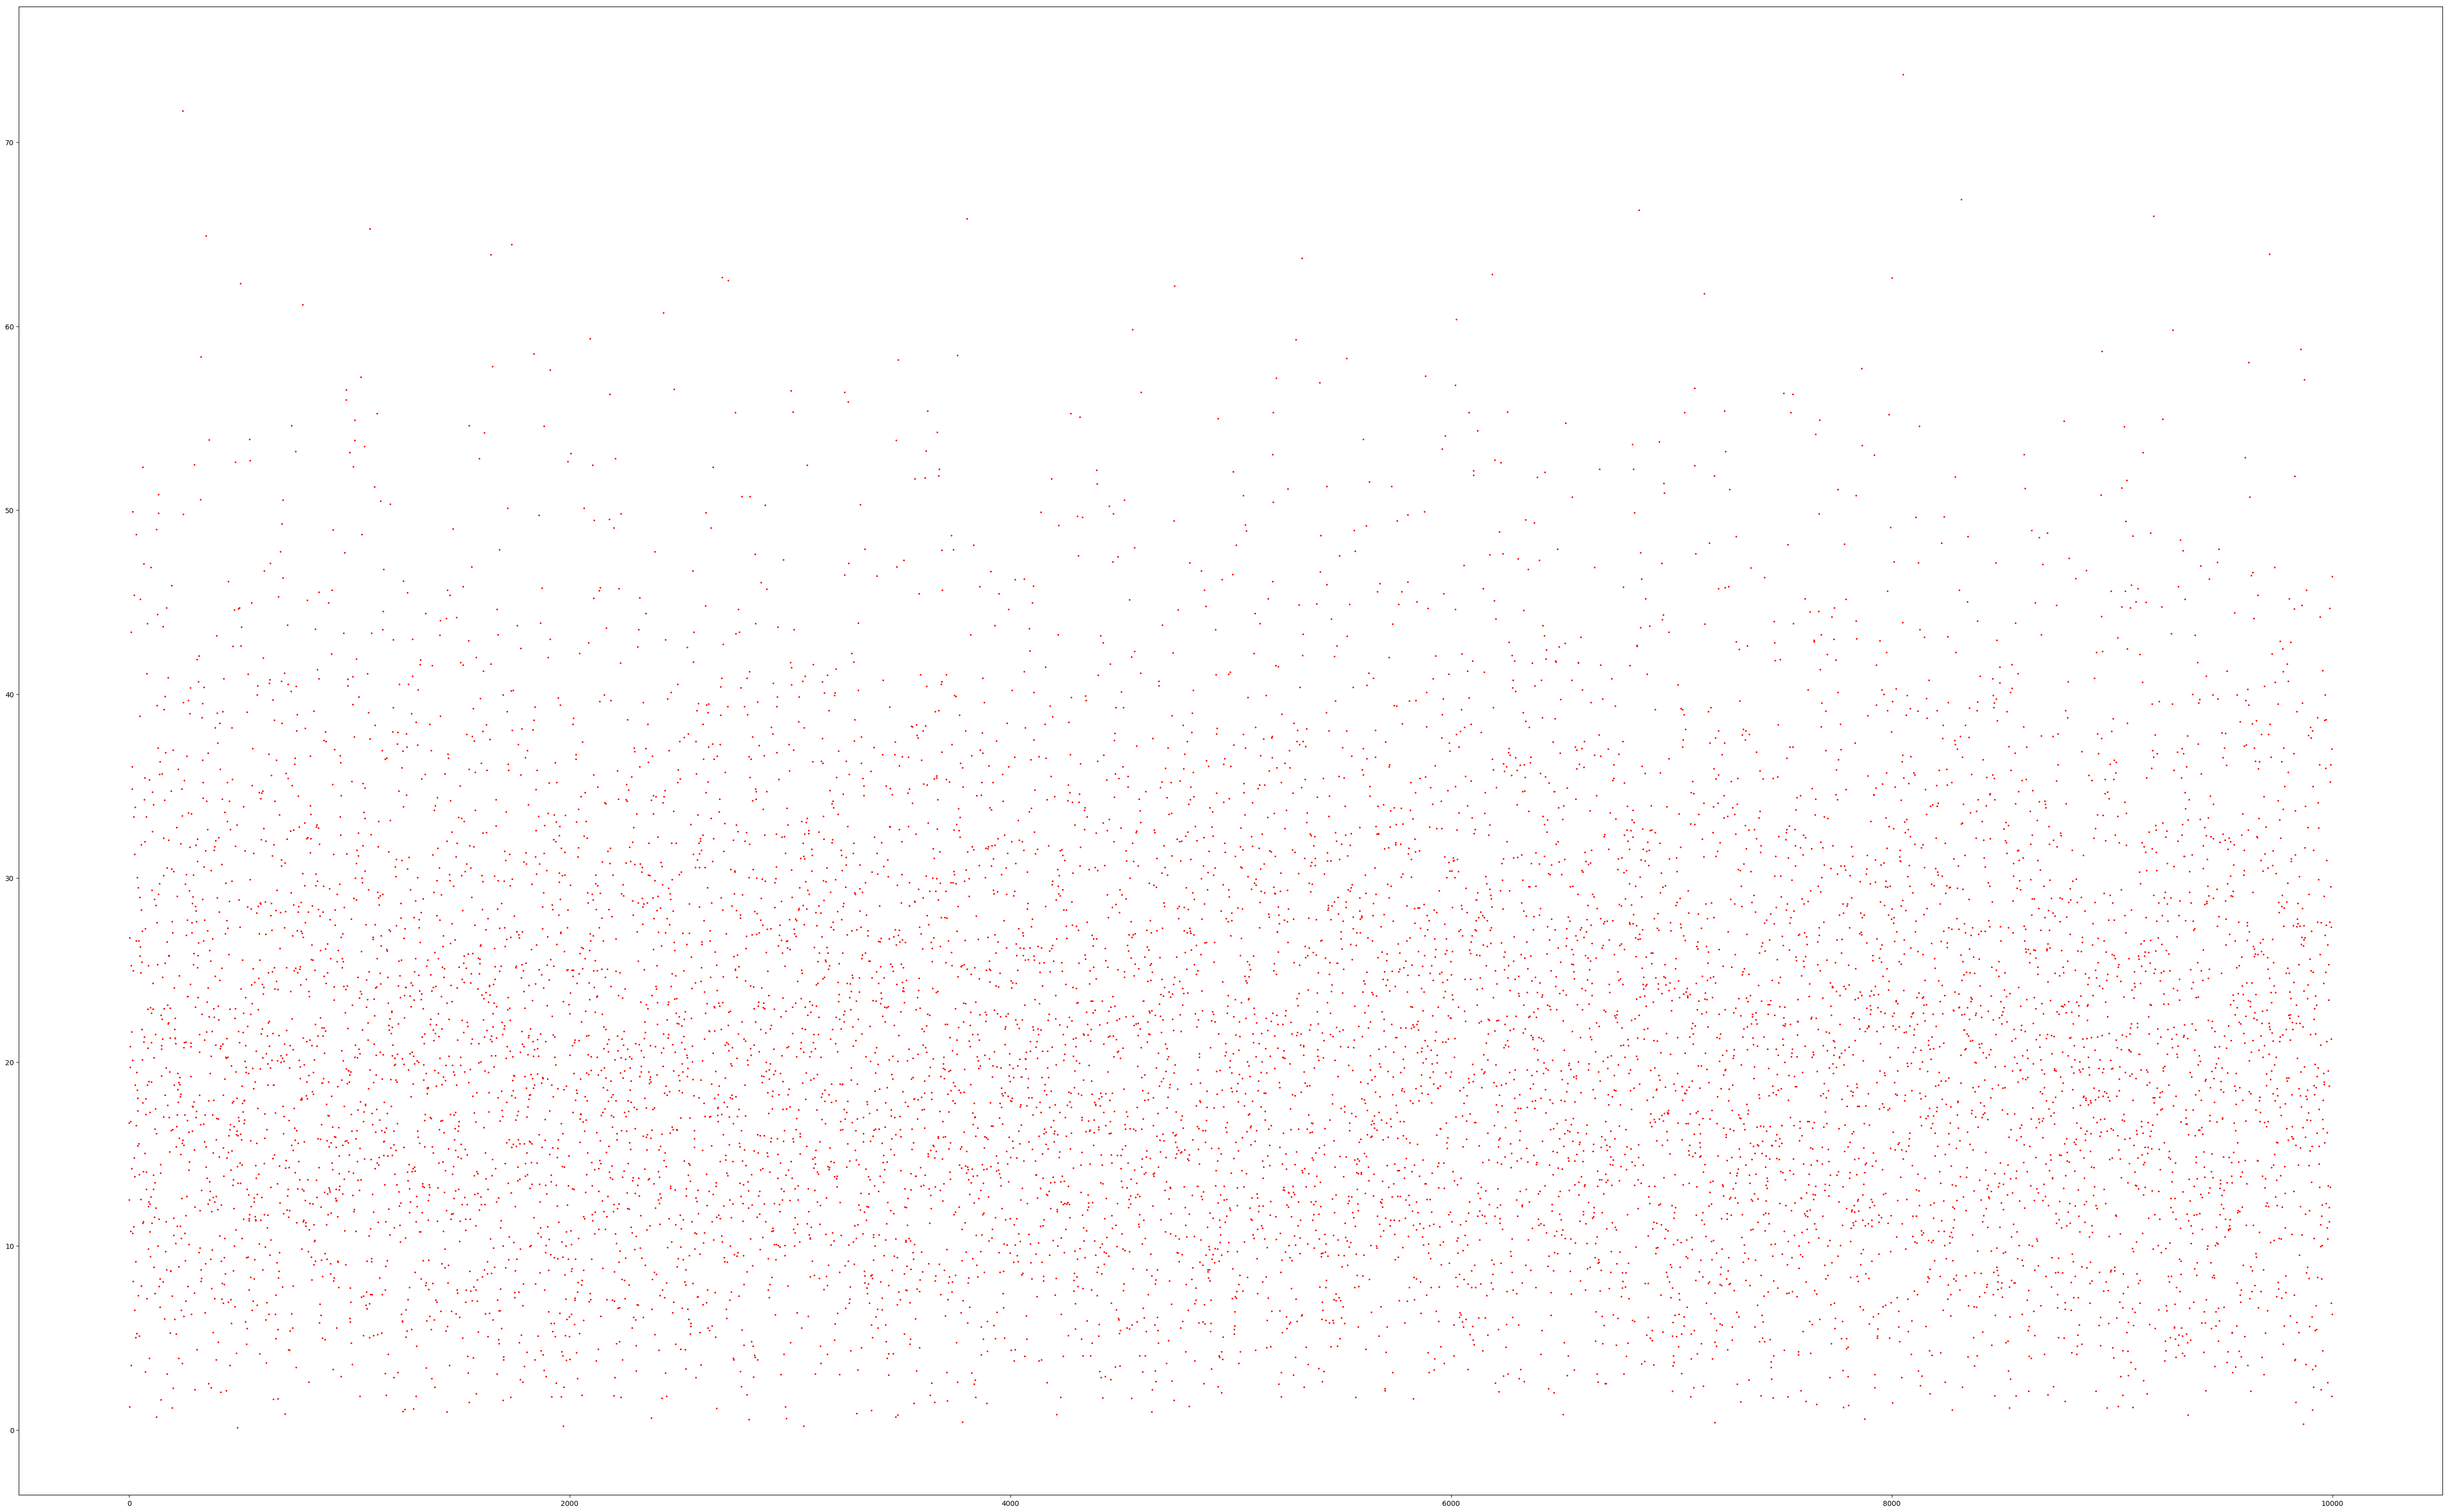
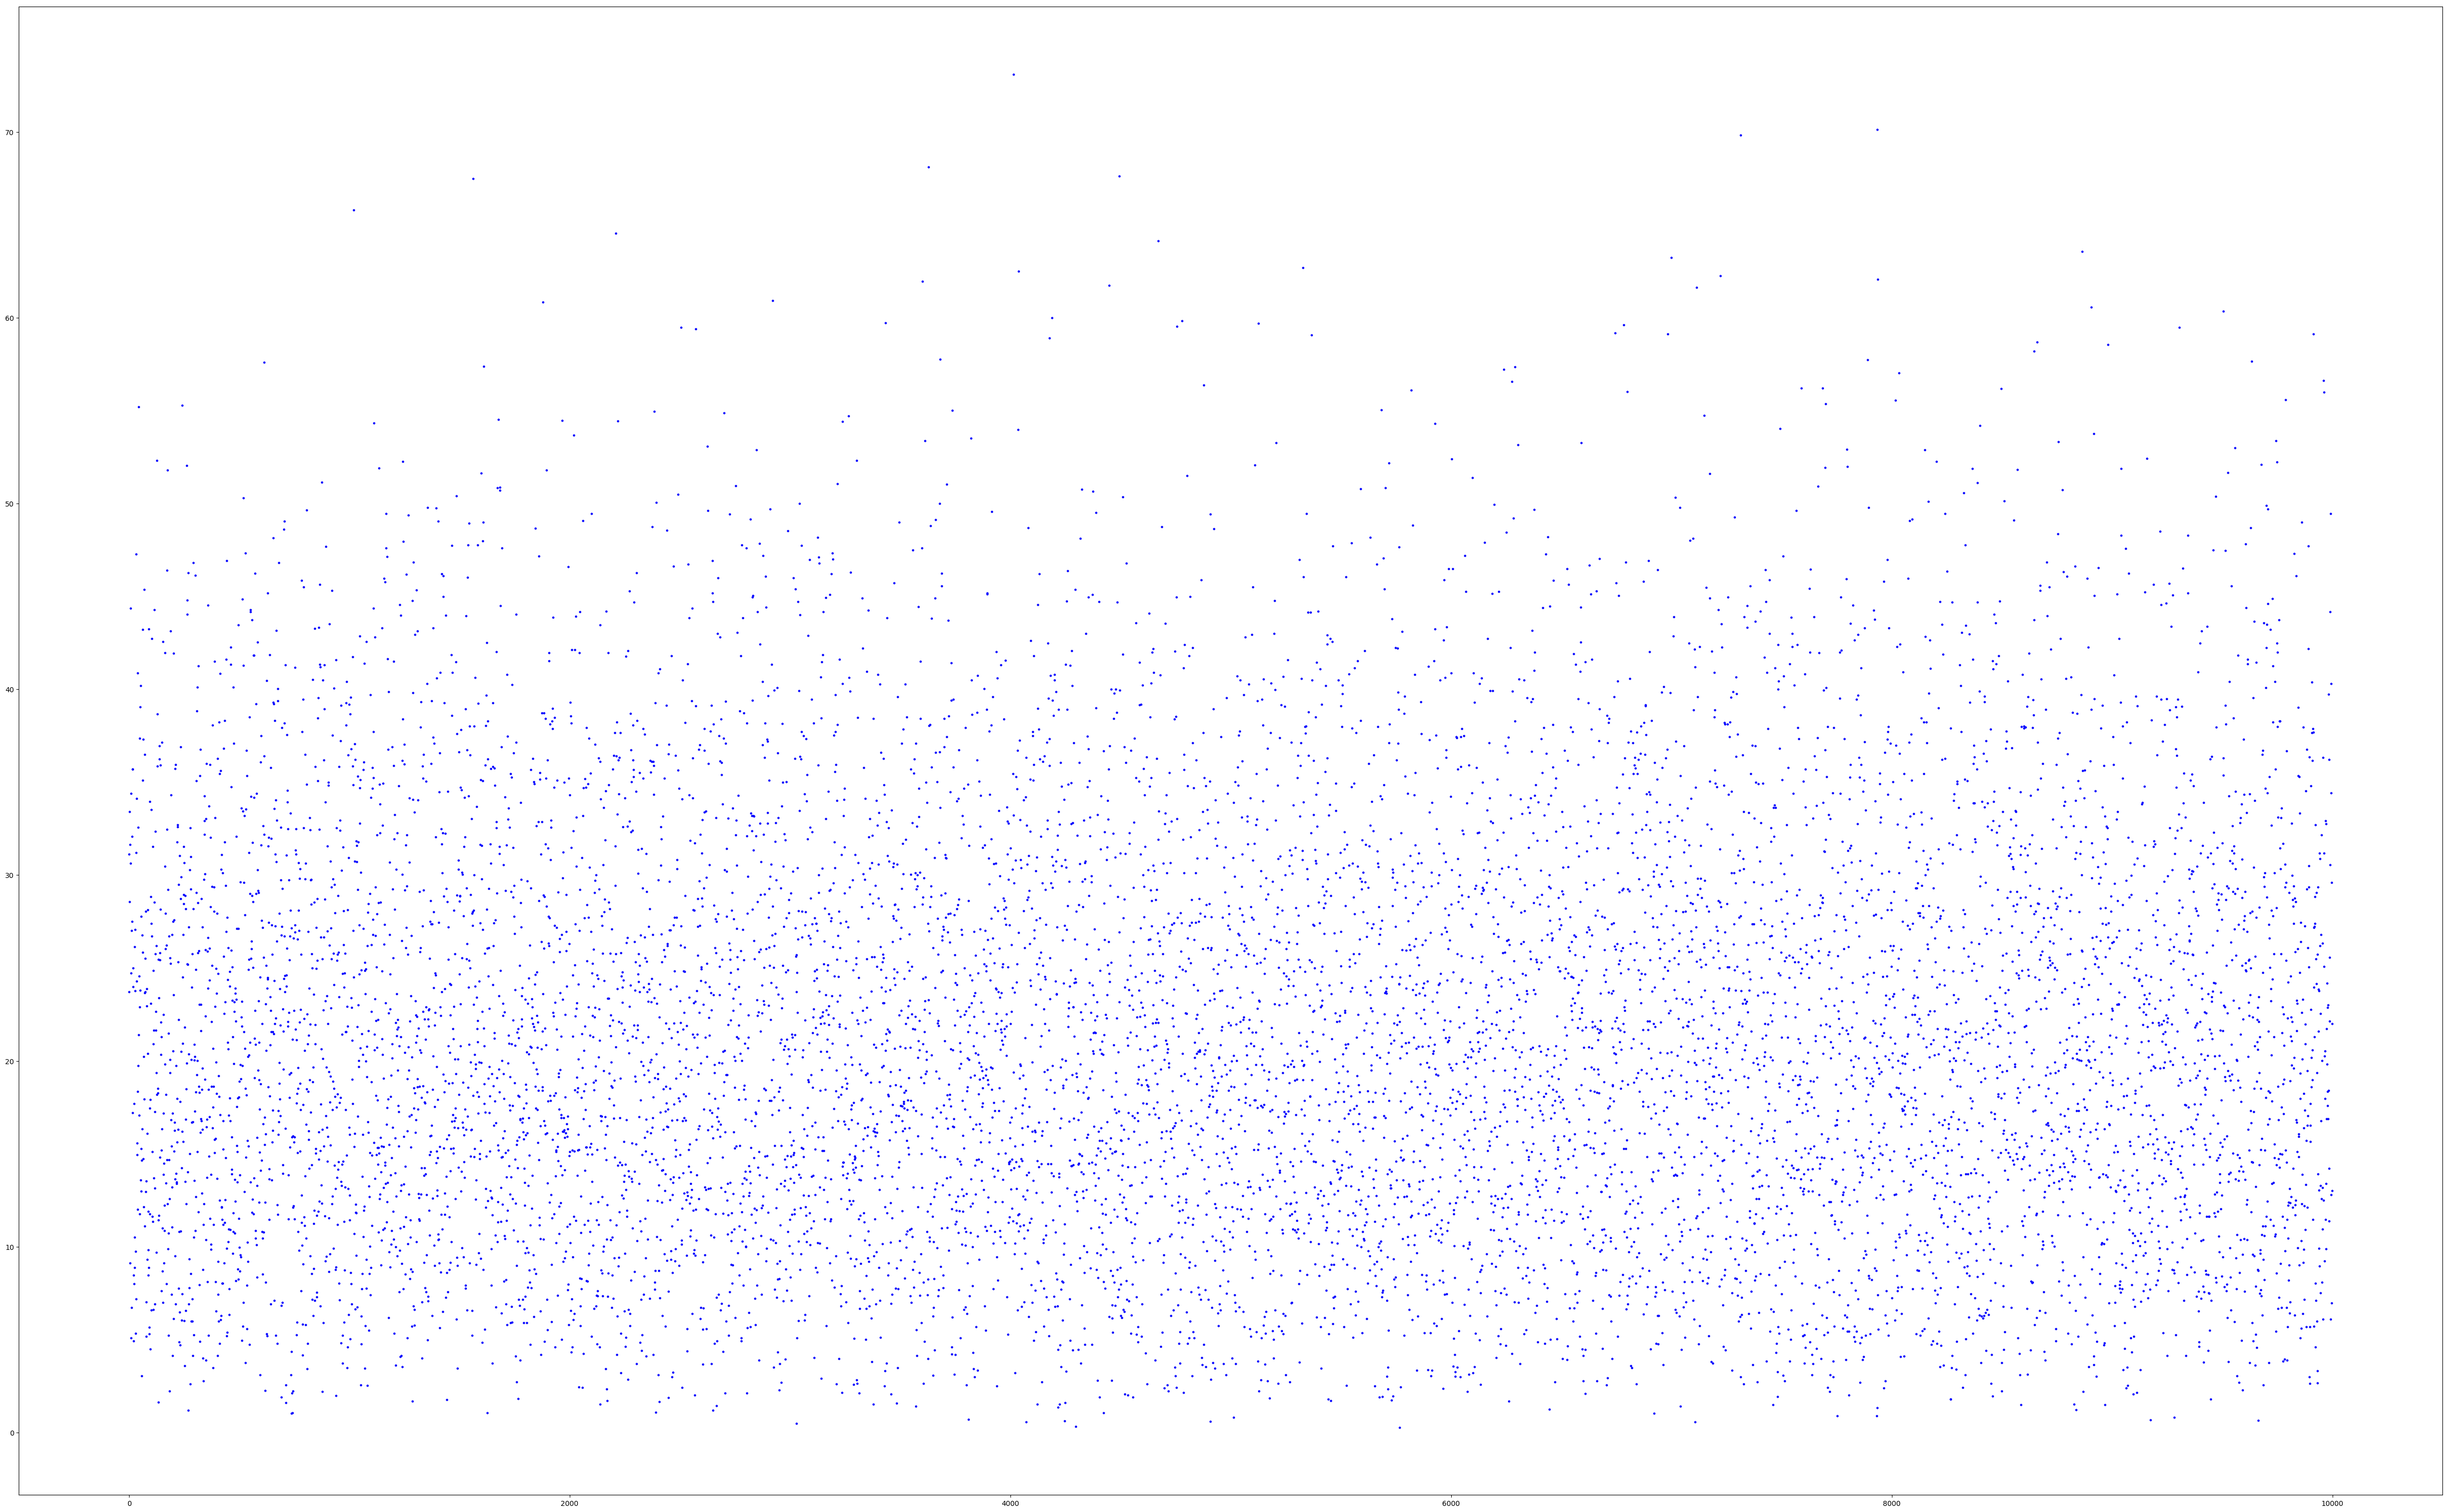
'keep going'

diff --git a/Alien_Invasion/game_functions.py b/Alien_Invasion/game_functions.py
@@ -1,4 +1,4 @@
-import sys,pygame
+import sys,pygame,time
 from ship import Ship
 from bullet import Bullet
 from alien import Alien
@@ -68,18 +68,41 @@ def change_feet_direction(aliens_settings,aliens):
         alien.rect.y+=aliens_settings.fleet_drop_speed
     aliens_settings.fleet_direction*=-1
 
-def update_screen(aliens_settings,screen,ship,bullets,aliens):
-    screen.fill(aliens_settings.bg_color)
-    ship.update()
-    ship.blitme()
+def ship_hit(aliens_settings,stats,screen,ship,aliens,bullets):
+    if stats.ships_left>0:
+        stats.ships_left-=1
+        aliens.empty()
+        bullets.empty()
+        create_fleet(aliens_settings,screen,aliens,ship)
+        ship.center_ship()
+        time.sleep(0.5)
+    else: stats.game_active=False
+
+def update_bullets(aliens,bullets,screen,ship,aliens_settings):
     bullets.update()
-    check_fleet_edges(aliens_settings,aliens)
-    aliens.update()
-    aliens.draw(screen)
     for bullet in bullets.copy():
         if bullet.rect.bottom<=0:
             bullets.remove(bullet)
-    ship.fire_bullet(ship,bullets)
+    collisions=pygame.sprite.groupcollide(bullets,aliens,True,True)
+    if len(aliens)==0:
+        bullets.empty()
+        create_fleet(aliens_settings,screen,aliens,ship)
+
+def update_aliens(aliens_settings,aliens,ship,stats,screen,bullets):
+    check_fleet_edges(aliens_settings,aliens)
+    aliens.update()
+    if pygame.sprite.spritecollideany(ship,aliens) or check_aliens_bottom(screen,aliens):
+        ship_hit(aliens_settings,stats,screen,ship,aliens,bullets)
+
+def check_aliens_bottom(screen,aliens):
+    for alien in aliens.sprites():
+        if alien.rect.bottom>=screen.get_rect().bottom:
+            return True
+
+def update_screen(aliens_settings,screen,ship,bullets,aliens,stats):
+    screen.fill(aliens_settings.bg_color)
+    ship.blitme()
+    aliens.draw(screen)
     for bullet in bullets.sprites():
         bullet.draw_bullet()
     pygame.display.flip() #让最近绘制的屏幕可见

diff --git a/Alien_Invasion/alien_invasion.py b/Alien_Invasion/alien_invasion.py
@@ -4,6 +4,7 @@ from ship import Ship
 import game_functions as gf
 from pygame.sprite import Group
 from alien import Alien
+from game_stats import GameStats
 
 def run_game():
     pygame.init()
@@ -13,8 +14,14 @@ def run_game():
     ship=Ship(screen,aliens_settings)
     bullets=Group()
     aliens=Group()
+    stats=GameStats(aliens_settings)
     gf.create_fleet(aliens_settings,screen,aliens,ship)
     while True: #每次循环都会自动重绘屏幕
         gf.check_events(aliens_settings,screen,ship,bullets)
-        gf.update_screen(aliens_settings,screen,ship,bullets,aliens)#更新屏幕上的图像,并切换到新屏幕
+        if stats.game_active:
+            ship.update()
+            gf.update_aliens(aliens_settings,aliens,ship,stats,screen,bullets)
+            gf.update_bullets(aliens,bullets,screen,ship,aliens_settings)
+            ship.fire_bullet(ship,bullets)
+            gf.update_screen(aliens_settings,screen,ship,bullets,aliens,stats)#更新屏幕上的图像,并切换到新屏幕
 run_game()

diff --git a/Alien_Invasion/ship.py b/Alien_Invasion/ship.py
@@ -19,7 +19,7 @@ class Ship():
 
     def fire_bullet(self,ship,bullets):
         if self.fire and len(bullets) < self.aliens_settings.bullets_allowed and \
-        time.perf_counter()-self.bullet_time>0.5:
+        time.perf_counter()-self.bullet_time>0.2:
             new_bullet=Bullet(self.aliens_settings,self.screen,ship)
             bullets.add(new_bullet)
             self.bullet_time=time.perf_counter()
@@ -31,3 +31,6 @@ class Ship():
         self.rect.centerx=self.centerx
     def blitme(self):
         self.screen.blit(self.image,self.rect)
+
+    def center_ship(self):
+        self.center=self.screen_rect.centerx    

diff --git a/Alien_Invasion/settings.py b/Alien_Invasion/settings.py
@@ -5,11 +5,12 @@ class Settings():
         self.screen_height=800
         self.bg_color=(230,230,230)
         self.ship_speed_factor=1.5 #ship setting
+        self.ship_limit=3
         self.bullet_speed_factor=1# 子弹设置
         self.bullet_width=3
         self.bullet_height=15
         self.bullet_color=60,60,60
-        self.bullets_allowed=3
+        self.bullets_allowed=100
         self.alien_speed=1
         self.fleet_drop_speed=10
         self.fleet_direction=1

diff --git a/Data_visual/random_walk.py b/Data_visual/random_walk.py
@@ -41,13 +41,13 @@ class person():
 walk_steps=5000
 step_distance=[0.3,0.3,0.3,0.2,0.2,0.1]
 David=person(walk_steps,step_distance)
-for i in range(10000):
+for i in range(1000):
     David.x=[0]
     David.y=[0]
     David.random_walk()
     David.show_distance()
 
 plt.figure(figsize=(61.8,38.2))
-plt.scatter(range(10000),David.distances,s=5,c='red')
+plt.scatter(range(10000),David.distances,s=5,c='blue')
 plt.savefig('random_walk_distanse.png',bbox_inches='tight')
 plt.show()

diff --git a/Alien_Invasion/bullet.py b/Alien_Invasion/bullet.py
@@ -2,6 +2,7 @@ import pygame
 from pygame.sprite import Sprite
 import time
 
+
 class Bullet(Sprite):
     def __init__(self,aliens_settings,screen,ship):
         super(Bullet,self).__init__()
@@ -15,6 +16,7 @@ class Bullet(Sprite):
     def update(self):
         self.y-=self.speed
         self.rect.y=self.y
+
 
     def draw_bullet(self):
         pygame.draw.rect(self.screen,self.color,self.rect)

diff --git a/Alien_Invasion/game_stats.py b/Alien_Invasion/game_stats.py
@@ -1,0 +1,7 @@
+class GameStats():
+    def __init__(self,aliens_settings):
+        self.aliens_settings=aliens_settings
+        self.reset_stats()
+        self.game_active=True
+    def reset_stats(self):
+         self.ships_left=self.aliens_settings.ship_limit
